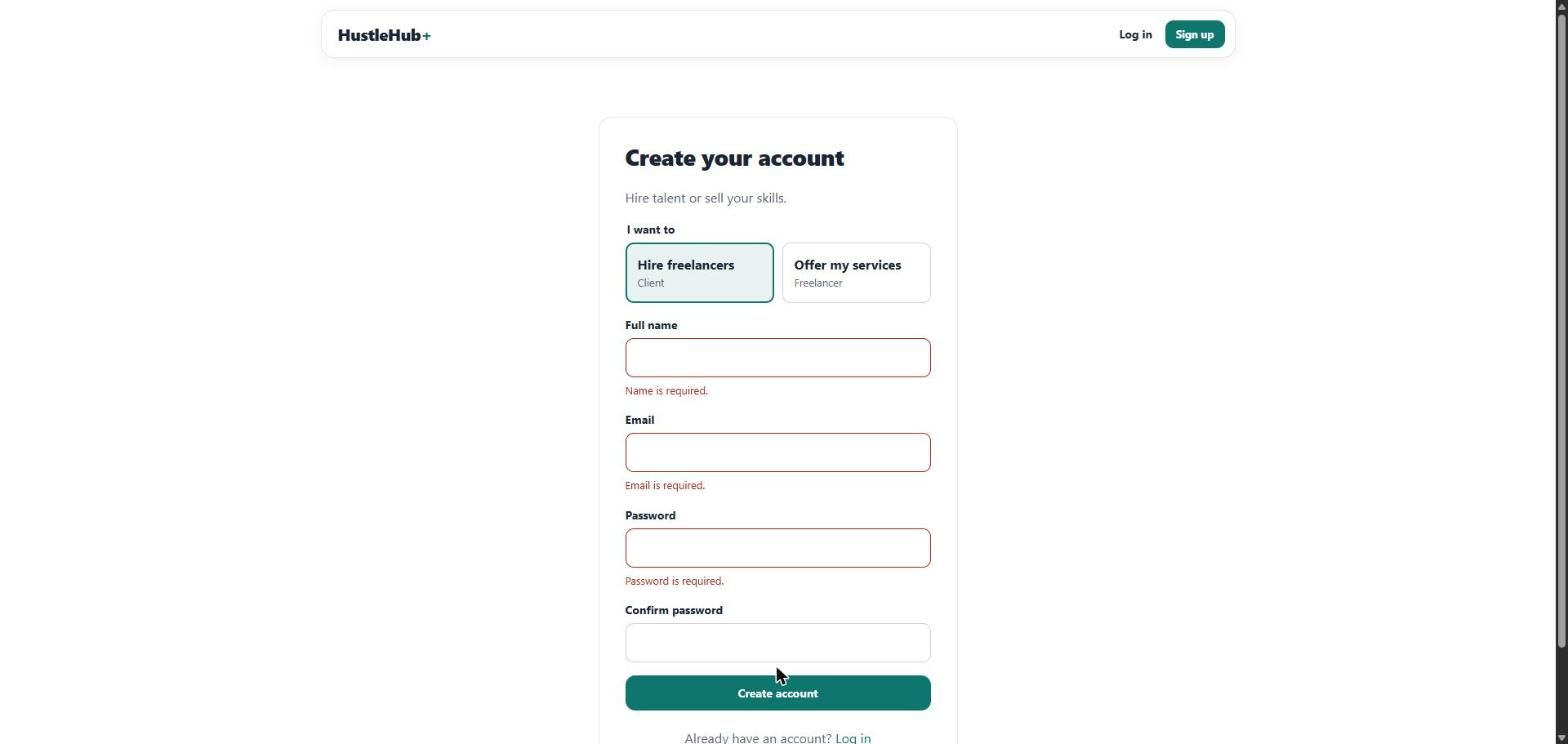
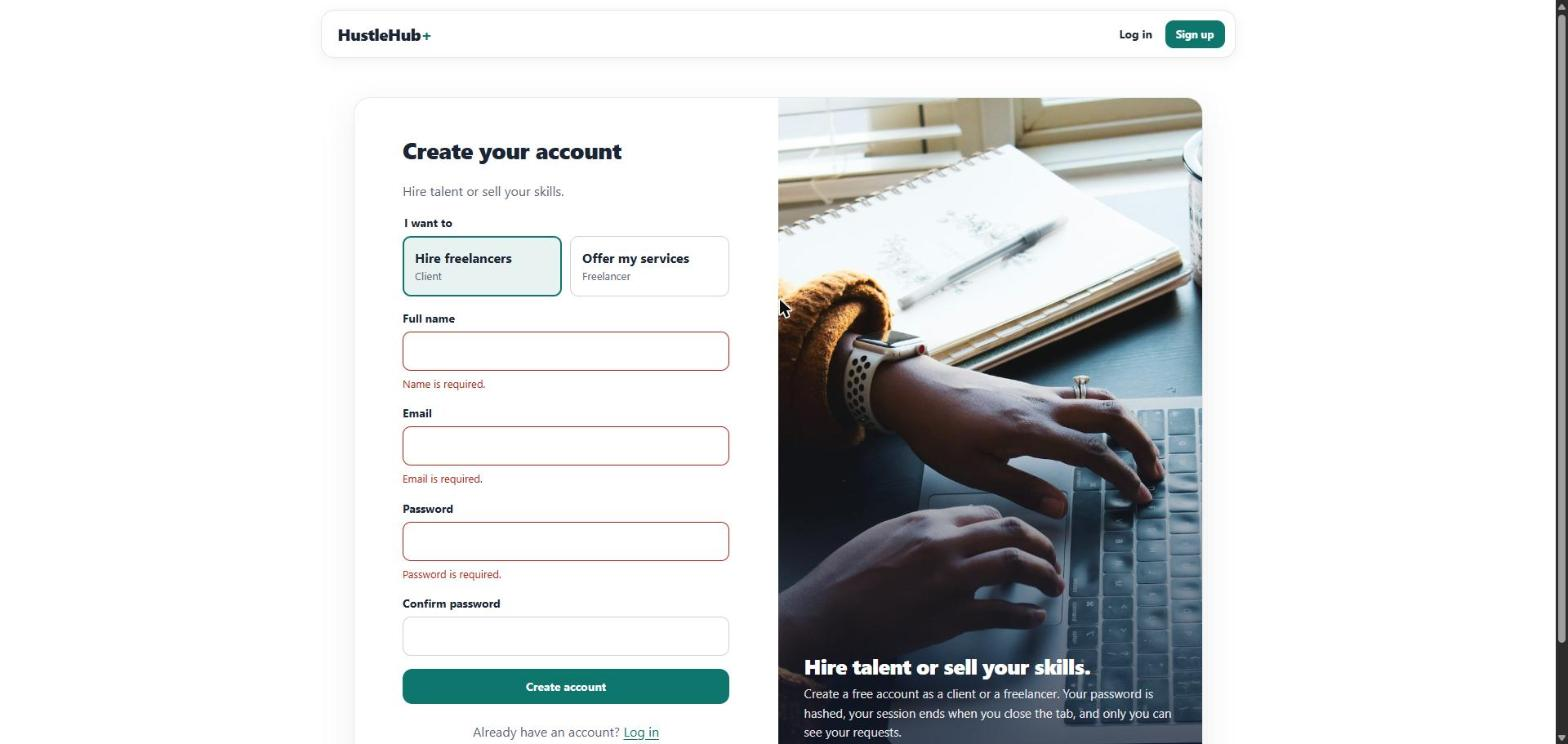
docs: retake app screenshots for the polished UI and add full attributions list
Table text now wraps so the action buttons fit. ATTRIBUTIONS.md lists every code reference, UI component, image credit, design inspiration, library (with licence) and tool.

diff --git a/frontend/src/index.css b/frontend/src/index.css
@@ -187,12 +187,13 @@ a { color: var(--primary); text-underline-offset: 3px; }
 
 .table-wrap { padding: 0; overflow-x: auto; }
 .table { width: 100%; border-collapse: collapse; font-size: 0.9375rem; }
-.table th, .table td { text-align: left; padding: 14px 20px; border-bottom: 1px solid var(--border); white-space: nowrap; vertical-align: top; }
+.table th, .table td { text-align: left; padding: 14px 16px; border-bottom: 1px solid var(--border); vertical-align: top; }
+.table th, .table td:first-child, .table .num, .table .status, .table .form__actions { white-space: nowrap; }
 .table th { font-size: 0.8125rem; font-weight: 700; color: var(--ink); }
 .table tbody tr:hover { background: #fafbfc; }
 .table tr:last-child td { border-bottom: 0; }
 .table .num { text-align: right; font-variant-numeric: tabular-nums; }
-.table .details { min-width: 240px; max-width: 340px; white-space: pre-wrap; overflow-wrap: break-word; color: var(--muted); }
+.table .details { min-width: 200px; max-width: 320px; white-space: pre-wrap; overflow-wrap: break-word; color: var(--muted); }
 .table .form__actions { flex-wrap: nowrap; }
 
 .tabs { display: flex; gap: 24px; border-bottom: 1px solid var(--border); }

diff --git a/ATTRIBUTIONS.md b/ATTRIBUTIONS.md
@@ -1,0 +1,120 @@
+# Attributions
+
+Every external source, image, design reference and third-party library used in HustleHub+.
+All links were tested and resolve. Accessed: 11 October 2026.
+
+The code references (sections 1–2) also appear as comments directly above the code they informed, in this format:
+
+```
+/* Author, Year
+ * Title
+ * Source / Platform
+ * Link
+ * Accessed: DD Month YYYY
+ */
+```
+
+---
+
+## 1. Code references
+
+| # | Reference | Used in |
+|---|---|---|
+| 1 | adnan kamili (2016) *Is bcrypt.compare vulnerable to timing attack*. Stack Overflow. https://stackoverflow.com/questions/35620979/is-bcrypt-compare-vulnerable-to-timing-attack | `backend/src/controllers/authController.js` (dummy hash for timing-safe login) |
+| 2 | Daniel Gartmann (2016) *How to prevent user enumeration attacks for a login system?* Stack Overflow. https://stackoverflow.com/questions/35827127/how-to-prevent-user-enumeration-attacks-for-a-login-system | `backend/src/controllers/authController.js` (generic login errors) |
+| 3 | OWASP Foundation (n.d.) *Authentication Cheat Sheet*. OWASP Cheat Sheet Series. https://cheatsheetseries.owasp.org/cheatsheets/Authentication_Cheat_Sheet.html | `backend/src/controllers/authController.js` |
+| 4 | Mongoose (n.d.) *How to Use findOneAndUpdate() in Mongoose*. Mongoose Documentation. https://mongoosejs.com/docs/tutorials/findoneandupdate.html | `backend/src/controllers/transactionController.js` (accept/decline only once) |
+| 5 | Auth0 (n.d.) *node-jsonwebtoken: JsonWebToken implementation for node.js*. GitHub. https://github.com/auth0/node-jsonwebtoken | `backend/src/middleware/auth.js` (algorithm, issuer, audience checks) |
+| 6 | daniel (2012) *JavaScript NoSQL Injection prevention in MongoDB*. Stack Overflow. https://stackoverflow.com/questions/13436467/javascript-nosql-injection-prevention-in-mongodb | `backend/src/middleware/sanitize.js` |
+| 7 | Micah Bala (2019) *How to implement validation in a separate file using express-validator*. Stack Overflow. https://stackoverflow.com/questions/55772477/how-to-implement-validation-in-a-separate-file-using-express-validator | `backend/src/middleware/fieldRules.js` |
+| 8 | express-validator (n.d.) *The Validation Chain*. express-validator Documentation. https://express-validator.github.io/docs/guides/validation-chain | `backend/src/middleware/fieldRules.js` |
+| 9 | OWASP Foundation (n.d.) *Input Validation Cheat Sheet*. OWASP Cheat Sheet Series. https://cheatsheetseries.owasp.org/cheatsheets/Input_Validation_Cheat_Sheet.html | `backend/src/middleware/fieldRules.js` (allow-lists) |
+| 10 | user606521 (2014) *How to remove control characters from string?* Stack Overflow. https://stackoverflow.com/questions/26741455/how-to-remove-control-characters-from-string | `backend/src/middleware/fieldRules.js` |
+| 11 | maerics (2011) *Matching a Unicode "name" with a JavaScript Regular Expression*. Stack Overflow. https://stackoverflow.com/questions/5571096/matching-a-unicode-name-with-a-javascript-regular-expression | `backend/src/middleware/fieldRules.js` (name rule) |
+| 12 | MDN contributors (2026) *Unicode character class escape: \p{...}, \P{...}*. MDN Web Docs. https://developer.mozilla.org/en-US/docs/Web/JavaScript/Reference/Regular_expressions/Unicode_character_class_escape | `backend/src/middleware/fieldRules.js` |
+| 13 | Alexander (2020) *Validate input is within a numeric range, possibly a float, using express-validator*. Stack Overflow. https://stackoverflow.com/questions/63404065/validate-input-is-within-a-numeric-range-possibly-a-float-using-express-valida | `backend/src/middleware/fieldRules.js` (money rule) |
+| 14 | xyz83242 (2019) *express-rate-limit - catching the message*. Stack Overflow. https://stackoverflow.com/questions/58486616/express-rate-limit-catching-the-message | `backend/src/middleware/rateLimiter.js` (JSON 429 message) |
+| 15 | Helmet.js (n.d.) *Helmet.js*. Helmet Documentation. https://helmetjs.github.io/ | `backend/src/app.js` (security headers, CSP) |
+| 16 | Timespace (2014) *Where to store JWT in browser? How to protect against CSRF?* Stack Overflow. https://stackoverflow.com/questions/27067251/where-to-store-jwt-in-browser-how-to-protect-against-csrf | `frontend/src/auth/AuthContext.jsx` |
+| 17 | MDN contributors (2025) *Window: sessionStorage property*. MDN Web Docs. https://developer.mozilla.org/en-US/docs/Web/API/Window/sessionStorage | `frontend/src/auth/AuthContext.jsx` |
+| 18 | user1210233 (2015) *What does it mean when they say React is XSS protected?* Stack Overflow. https://stackoverflow.com/questions/33644499/what-does-it-mean-when-they-say-react-is-xss-protected | `frontend/src/utils/format.js` |
+
+## 2. UI components and techniques
+
+| # | Reference | Used in |
+|---|---|---|
+| 19 | Lucide Contributors (n.d.) *Lucide for React*. Lucide Documentation. https://lucide.dev/guide/react | Icons in `NavBar.jsx`, `GigCard.jsx`, `StatusLabel.jsx`, `EmptyState.jsx` and the pages |
+| 20 | React Router (n.d.) *NavLink*. React Router Documentation. https://reactrouter.com/api/components/NavLink | `frontend/src/components/NavBar.jsx` (active page) |
+| 21 | MDN contributors (2026) *<select>: The HTML Select element*. MDN Web Docs. https://developer.mozilla.org/en-US/docs/Web/HTML/Reference/Elements/select | `frontend/src/components/GigForm.jsx` (category dropdown) |
+| 22 | MDN contributors (2026) *<img>: The Image Embed element*. MDN Web Docs. https://developer.mozilla.org/en-US/docs/Web/HTML/Reference/Elements/img | `frontend/src/components/Photo.jsx` |
+| 23 | MDN contributors (2026) *object-fit*. MDN Web Docs. https://developer.mozilla.org/en-US/docs/Web/CSS/Reference/Properties/object-fit | `frontend/src/components/Photo.jsx`, `frontend/src/index.css` |
+| 24 | MDN contributors (2026) *Basic concepts of grid layout*. MDN Web Docs. https://developer.mozilla.org/en-US/docs/Web/CSS/Guides/Grid_layout/Basic_concepts | `frontend/src/index.css` (split login/register layout, grids) |
+| 25 | MDN contributors (2026) *prefers-reduced-motion*. MDN Web Docs. https://developer.mozilla.org/en-US/docs/Web/CSS/Reference/At-rules/@media/prefers-reduced-motion | `frontend/src/index.css` |
+
+## 3. Images
+
+The photos are free to use under the Unsplash License. They are stored in `frontend/public/images/` and served from the app's own origin, and each photographer is credited on screen where the photo appears.
+
+| # | Reference | File | Shown on |
+|---|---|---|---|
+| 26 | Unsplash (n.d.) *License*. Unsplash. https://unsplash.com/license | – | – |
+| 27 | Toa Heftiba (2018) *Cup of coffee, laptop computer, and red earphones plugged in laptop on brown wooden table* [Photograph]. Unsplash. https://unsplash.com/photos/cup-of-coffee-laptop-computer-and-red-earphones-plugged-in-laptop-on-brown-wooden-table-W6q15ddqqJo | `frontend/public/images/hero-workspace.jpg` | Browse gigs banner |
+| 28 | Good Faces (2021) *Woman in gray sweater sitting on chair using macbook* [Photograph]. Unsplash. https://unsplash.com/photos/woman-in-gray-sweater-sitting-on-chair-using-macbook-gy5SlRW9OGA | `frontend/public/images/auth-login.jpg` | Log in page |
+| 29 | Daniel Thomas (2020) *Person using black and silver laptop computer* [Photograph]. Unsplash. https://unsplash.com/photos/person-using-black-and-silver-laptop-computer-6_NXEMZbUq0 | `frontend/public/images/auth-register.jpg` | Register page |
+
+Screenshots in `images/app/`, `images/Postman Part1/` and `images/Postman Part2/` are our own captures of this application.
+
+## 4. Design inspiration
+
+| # | Reference | How it was used |
+|---|---|---|
+| 30 | hipages Group (n.d.) *hipages*. https://hipages.com.au/ | Design language only (type weight, spacing, button and card styling). No code, text, images or branding were copied, and HustleHub+ keeps its own teal accent. |
+
+## 5. Libraries and tools
+
+Open-source packages used by the project (version as installed, licence from the package).
+
+### Backend (`backend/package.json`)
+
+| Package | Version | Licence | Purpose | Link |
+|---|---|---|---|---|
+| express | 4.22.3 | MIT | Web framework | https://expressjs.com/ |
+| mongoose | 8.24.5 | MIT | MongoDB object modelling | https://mongoosejs.com/ |
+| bcryptjs | 2.4.3 | MIT | Password hashing | https://github.com/dcodeIO/bcrypt.js |
+| jsonwebtoken | 9.0.3 | MIT | JWT signing and verification | https://github.com/auth0/node-jsonwebtoken |
+| helmet | 7.2.0 | MIT | Security headers and CSP | https://helmetjs.github.io/ |
+| express-validator | 7.3.2 | MIT | Input validation and sanitisation | https://express-validator.github.io/ |
+| express-rate-limit | 7.5.1 | MIT | Rate limiting | https://github.com/express-rate-limit/express-rate-limit |
+| cors | 2.8.6 | MIT | CORS allow-list | https://github.com/expressjs/cors |
+| morgan | 1.12.1 | MIT | HTTP request logging | https://github.com/expressjs/morgan |
+| dotenv | 16.6.1 | BSD-2-Clause | Environment variables | https://github.com/motdotla/dotenv |
+| uuid | 11.1.1 | MIT | Unique identifiers | https://github.com/uuidjs/uuid |
+| jest | 30.5.2 | MIT | Test runner (dev) | https://jestjs.io/ |
+| supertest | 7.2.2 | MIT | HTTP assertions (dev) | https://github.com/ladjs/supertest |
+| mongodb-memory-server | 10.4.3 | MIT | In-memory MongoDB for tests and local DB (dev) | https://github.com/typegoose/mongodb-memory-server |
+| selfsigned | 5.5.0 | MIT | Local SSL certificate generation (dev) | https://github.com/jfromaniello/selfsigned |
+| eslint | 9.39.5 | MIT | Linting (dev) | https://eslint.org/ |
+| cross-env | 7.0.3 | MIT | Cross-platform env vars in scripts (dev) | https://github.com/kentcdodds/cross-env |
+
+### Frontend (`frontend/package.json`)
+
+| Package | Version | Licence | Purpose | Link |
+|---|---|---|---|---|
+| react, react-dom | 19.3.0 | MIT | UI library | https://react.dev/ |
+| react-router-dom | 7.18.4 | MIT | Routing | https://reactrouter.com/ |
+| lucide-react | 1.55.0 | ISC | Icons | https://lucide.dev/ |
+| vite, @vitejs/plugin-react | 8.3.4, 6.1.2 | MIT | Dev server and build | https://vite.dev/ |
+| vitest | 5.0.3 | MIT | Test runner (dev) | https://vitest.dev/ |
+| @testing-library/react, user-event, jest-dom | 16.3.3, 14.6.7, 7.0.1 | MIT | Component testing (dev) | https://testing-library.com/ |
+| jsdom | 29.1.1 | MIT | Browser environment for tests (dev) | https://github.com/jsdom/jsdom |
+| oxlint | 1.87.0 | MIT | Linting (dev) | https://oxc.rs/ |
+
+### Tools and platforms
+
+| Tool | Purpose | Link |
+|---|---|---|
+| Postman | API collection and manual testing | https://www.postman.com/ |
+| Newman (v6) | Running the Postman collection from the command line | https://github.com/postmanlabs/newman |
+| MongoDB | Database | https://www.mongodb.com/ |
+| Docker | Containerised API and database | https://www.docker.com/ |
+| GitHub Actions | Continuous integration | https://docs.github.com/en/actions |

diff --git a/CHANGELOG.md b/CHANGELOG.md
@@ -2,13 +2,18 @@
 
 ## Now / Next / Known issues
 
-- **Now:** UI polish with icons, stock photos and references. Awaiting review.
+- **Now:** Screenshots retaken for the polished UI, full attributions list added. Pushed.
 - **Next:**
   - Record the Part 2 demo video and add its link to the README.
-  - Retake the `images/app/` screenshots so they show the polished UI.
 - **Known issues:**
   - The frontend CSP is only sent by `npm run preview`, not `npm run dev` (documented in the README).
   - The git-native v3 collection under `postman/collections/` still only covers Part 1. The JSON collection is the complete one.
+
+## 2026-10-12 – New screenshots and full attributions
+
+- **Screenshots:** all ten `images/app/` screenshots were retaken with the polished UI.
+- **Table fix:** table text now wraps (date, amount, status and actions stay on one line), so **Decline** is no longer cut off on Requests & income.
+- **`ATTRIBUTIONS.md`:** one list of all 30 references (code, UI components, images, design inspiration) plus every library with its version and licence, and the tools used. All links tested. The README links to it.
 
 ## 2026-10-12 – UI polish, icons and stock photos
 

diff --git a/README.md b/README.md
@@ -143,6 +143,7 @@ INSY7314/
 │   ├── Postman Part1/               # Part 1 Postman evidence
 │   └── Postman Part2/               # Part 2: one screenshot per request (63)
 ├── docker-compose.yml               # API + MongoDB containers
+├── ATTRIBUTIONS.md                  # Every reference, image credit, library and tool
 └── CHANGELOG.md                     # Part 2 change log
 ```
 
@@ -528,7 +529,7 @@ Part 1 (Secure Backend Foundations) Postman screenshots are kept in [`images/Pos
 
 ## References
 
-The same references appear as comments next to the code they informed.
+The same references appear as comments next to the code they informed. The complete list, including image credits, design inspiration and every library and tool with its licence, is in [`ATTRIBUTIONS.md`](ATTRIBUTIONS.md).
 
 | Source | Used in |
 |---|---|
